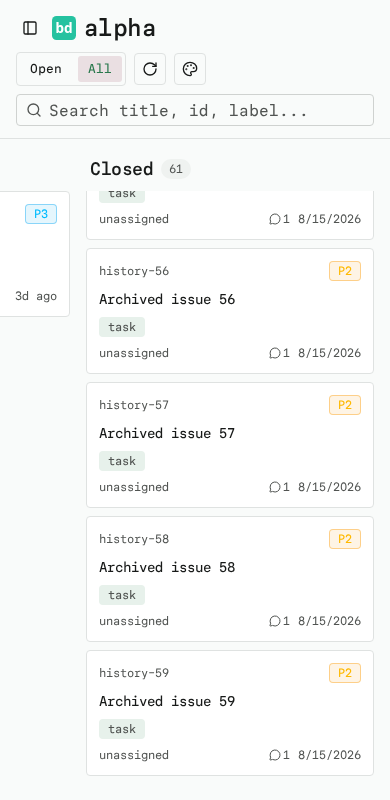
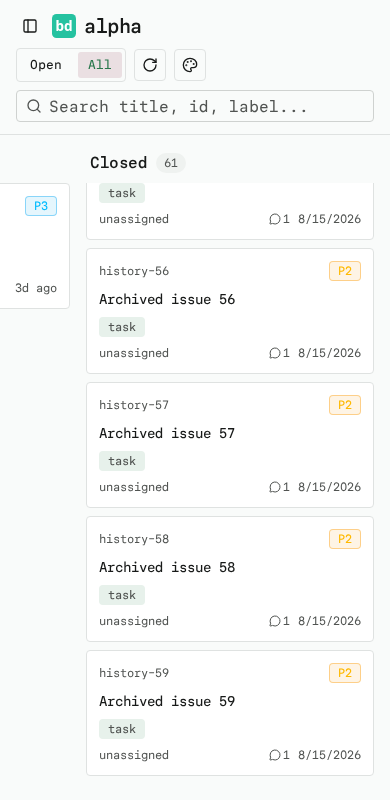
feat: refresh visible dashboards faster and compact headings

Changed region(s): [[0.0615, 0.0, 0.9538, 0.2188], [0.0615, 0.2188, 0.1538, 0.2812], [0.0308, 0.3438, 0.1538, 0.4062]]

diff --git a/tests/e2e/branding.spec.ts b/tests/e2e/branding.spec.ts
@@ -32,15 +32,15 @@ for (const mode of ["light", "dark"] as const) {
     expect(await page.evaluate(() => [...document.fonts].some((font) => font.family.includes("paperMono") && font.status === "loaded"))).toBe(true);
     await expect(page.locator("body")).toHaveCSS("font-feature-settings", '"cv02", "cv03", "cv04", "cv11"');
     const title = page.getByRole("heading", { name: "alpha", exact: true });
-    await expect(title).toHaveCSS("font-size", "24px");
-    await expect(title).toHaveCSS("line-height", "32px");
+    await expect(title).toHaveCSS("font-size", "20px");
+    await expect(title).toHaveCSS("line-height", "28px");
     await expect(title).toHaveCSS("font-weight", "600");
-    await expect(title).toHaveCSS("letter-spacing", "-0.6px");
+    await expect(title).toHaveCSS("letter-spacing", "-0.5px");
     const columnTitle = page.getByRole("heading", { name: "Ready", exact: true });
-    await expect(columnTitle).toHaveCSS("font-size", "18px");
-    await expect(columnTitle).toHaveCSS("line-height", "28px");
+    await expect(columnTitle).toHaveCSS("font-size", "16px");
+    await expect(columnTitle).toHaveCSS("line-height", "24px");
     await expect(columnTitle).toHaveCSS("font-weight", "600");
-    await expect(columnTitle).toHaveCSS("letter-spacing", "-0.45px");
+    await expect(columnTitle).toHaveCSS("letter-spacing", "-0.4px");
     const logo = page.getByRole("img", { name: "Beads", exact: true }).filter({ visible: true });
     await expect(logo).toHaveCount(1);
     expect(await logo.evaluate((image) => (image as HTMLImageElement).naturalWidth)).toBe(32);
@@ -54,7 +54,7 @@ for (const mode of ["light", "dark"] as const) {
     await card.focus();
     await card.press("Enter");
     await expect(page.getByRole("dialog")).toBeVisible();
-    await expect(page.getByRole("dialog").getByRole("heading", { name: "Fix crash on startup", exact: true })).toHaveCSS("font-size", "20px");
+    await expect(page.getByRole("dialog").getByRole("heading", { name: "Fix crash on startup", exact: true })).toHaveCSS("font-size", "18px");
     if (process.env.UPDATE_SCREENSHOTS && mode === "dark") {
       await page.screenshot({ path: "docs/screenshots/beads-issue-drawer.png", animations: "disabled" });
     }

diff --git a/tests/e2e/polling.spec.ts b/tests/e2e/polling.spec.ts
@@ -1,0 +1,46 @@
+import { expect, test } from "@playwright/test";
+
+test("board polls every three seconds, pauses when hidden, and refreshes on return", async ({ page }) => {
+  await page.clock.install();
+  await page.clock.pauseAt(new Date());
+  let projectRequests = 0;
+  let boardRequests = 0;
+  await page.route("**/api/projects", async (route) => {
+    projectRequests++;
+    await route.continue();
+  });
+  await page.route("**/issues?scope=open", async (route) => {
+    const version = ++boardRequests;
+    const response = await route.fetch();
+    const data = await response.json();
+    data.issues.find((issue: { id: string }) => issue.id === "alpha-1").title = `Updated issue ${version}`;
+    await route.fulfill({ response, json: data });
+  });
+  await page.goto("/");
+  await expect(page.getByRole("button", { name: /Updated issue 1/ })).toBeVisible();
+  await page.clock.runFor(2999);
+  expect(boardRequests).toBe(1);
+  await page.clock.runFor(1);
+  await expect(page.getByRole("button", { name: /Updated issue 2/ })).toBeVisible();
+  expect(projectRequests).toBe(2);
+
+  for (let cycle = 0; cycle < 2; cycle++) {
+    await page.evaluate(() => {
+      Object.defineProperty(document, "visibilityState", { configurable: true, value: "hidden" });
+      document.dispatchEvent(new Event("visibilitychange"));
+    });
+    const before = boardRequests;
+    await page.clock.runFor(12_000);
+    expect(boardRequests).toBe(before);
+    expect(projectRequests).toBe(before);
+    await page.evaluate(() => {
+      Object.defineProperty(document, "visibilityState", { configurable: true, value: "visible" });
+      document.dispatchEvent(new Event("visibilitychange"));
+    });
+    await expect(page.getByRole("button", { name: `Updated issue ${before + 1}`, exact: false })).toBeVisible();
+    await page.clock.runFor(3000);
+    await expect(page.getByRole("button", { name: `Updated issue ${before + 2}`, exact: false })).toBeVisible();
+    expect(boardRequests).toBe(before + 2);
+    expect(projectRequests).toBe(before + 2);
+  }
+});

diff --git a/src/components/dashboard.tsx b/src/components/dashboard.tsx
@@ -27,7 +27,7 @@ import {
 } from "@/components/ui/sidebar";
 import type { BeadsIssue, IssueListResponse, Project } from "@/lib/types";
 
-const POLL_MS = 10_000;
+const POLL_MS = 3_000;
 
 interface LoadedBoard {
   projectId: string;
@@ -104,8 +104,25 @@ export function Dashboard() {
   }, [selectedId, scope, reloadKey]);
 
   useEffect(() => {
-    const timer = setInterval(() => setReloadKey((k) => k + 1), POLL_MS);
-    return () => clearInterval(timer);
+    let timer: ReturnType<typeof setInterval> | undefined;
+    function updatePolling() {
+      clearInterval(timer);
+      if (document.visibilityState === "visible") {
+        timer = setInterval(() => setReloadKey((k) => k + 1), POLL_MS);
+      }
+    }
+    function onVisibilityChange() {
+      updatePolling();
+      if (document.visibilityState === "visible") {
+        setReloadKey((k) => k + 1);
+      }
+    }
+    updatePolling();
+    document.addEventListener("visibilitychange", onVisibilityChange);
+    return () => {
+      clearInterval(timer);
+      document.removeEventListener("visibilitychange", onVisibilityChange);
+    };
   }, []);
 
   async function refresh() {
@@ -177,7 +194,7 @@ export function Dashboard() {
         <header className="flex shrink-0 flex-wrap items-center gap-2 border-b px-4 py-3 lg:gap-3">
           <SidebarTrigger />
           <Image src="/brand/beads.svg" alt="Beads" width={24} height={24} unoptimized className="md:hidden" />
-          <h1 className="min-w-0 flex-1 basis-[calc(100%-5rem)] truncate text-2xl font-semibold tracking-tight lg:basis-0">
+          <h1 className="min-w-0 flex-1 basis-[calc(100%-5rem)] truncate text-xl font-semibold tracking-tight lg:basis-0">
             {selectedProject?.name ?? "View Beads"}
           </h1>
           <div className="relative order-last w-full lg:order-none lg:ml-auto lg:w-64">

diff --git a/src/components/board.tsx b/src/components/board.tsx
@@ -27,7 +27,7 @@ export function Board({ issues, readyIds, includeClosed, onSelect }: BoardProps)
         {visible.map(({ key, label }) => (
           <section key={key} className="flex w-72 flex-col gap-2">
             <header className="flex items-center gap-2 px-1">
-              <h2 className="text-lg font-semibold tracking-tight">{label}</h2>
+              <h2 className="text-base font-semibold tracking-tight">{label}</h2>
               <span className="rounded-full bg-muted px-2 py-0.5 text-xs text-muted-foreground">
                 {columns[key].length}
               </span>

diff --git a/src/components/ui/sheet.tsx b/src/components/ui/sheet.tsx
@@ -105,7 +105,7 @@ function SheetTitle({ className, ...props }: SheetPrimitive.Title.Props) {
     <SheetPrimitive.Title
       data-slot="sheet-title"
       className={cn(
-        "font-heading text-xl font-semibold tracking-tight text-foreground",
+        "font-heading text-lg font-semibold tracking-tight text-foreground",
         className
       )}
       {...props}

diff --git a/src/app/api/projects/route.ts b/src/app/api/projects/route.ts
@@ -3,7 +3,7 @@ import { cached } from "@/lib/cache";
 import { discoverProjects } from "@/lib/discovery";
 import type { Project, ProjectSummary } from "@/lib/types";
 
-const TTL_MS = 5_000;
+const TTL_MS = 1_000;
 
 export async function GET() {
   const projects = discoverProjects(process.cwd());

diff --git a/src/app/api/projects/[id]/issues/route.ts b/src/app/api/projects/[id]/issues/route.ts
@@ -4,7 +4,7 @@ import { runBd } from "@/lib/bd";
 import { cached } from "@/lib/cache";
 import type { BeadsIssue, IssueListResponse } from "@/lib/types";
 
-const TTL_MS = 5_000;
+const TTL_MS = 1_000;
 
 function lightIssue(issue: BeadsIssue) {
   return {

diff --git a/AGENTS.md b/AGENTS.md
@@ -58,6 +58,10 @@ npm run test:e2e     # Playwright integration tests (needs `npm run build` first
 - `src/app/page.tsx` + `src/components/*` — client UI (sidebar, board, drawer)
 - `bin/view-beads.mjs` — CLI: start/reuse server, print link, open browser
 
+The dashboard polls projects and the selected board every 3 seconds while visible,
+pauses polling in hidden tabs, and refreshes on return. These endpoints use a
+1-second data cache. Open issue drawers do not poll.
+
 `bd` binary location is resolved via `BEADS_BIN` env (default: `bd` from
 PATH). Project discovery roots come from `BEADS_PROJECT_ROOTS` (comma
 separated, default: cwd, `~/Projects`, `~/Dotfiles`).

diff --git a/public/brand/README.md b/public/brand/README.md
@@ -19,7 +19,7 @@ The live site's CSS explicitly selects Paper Mono for both body and headings
 also preloaded by Mintlify but is not the configured body/heading font.
 
 Typography keeps the site's 16px body baseline with a smaller dashboard heading
-scale: 24px project titles, 18px column headings, and 20px drawer titles.
+scale: 20px project titles, 16px column headings, and 18px drawer titles.
 Headings use weight 600 and -0.025em letter spacing; compact dashboard controls
 and issue metadata retain their smaller sizes.
 The site's `cv02`, `cv03`, `cv04`, and `cv11` font-feature settings are enabled
